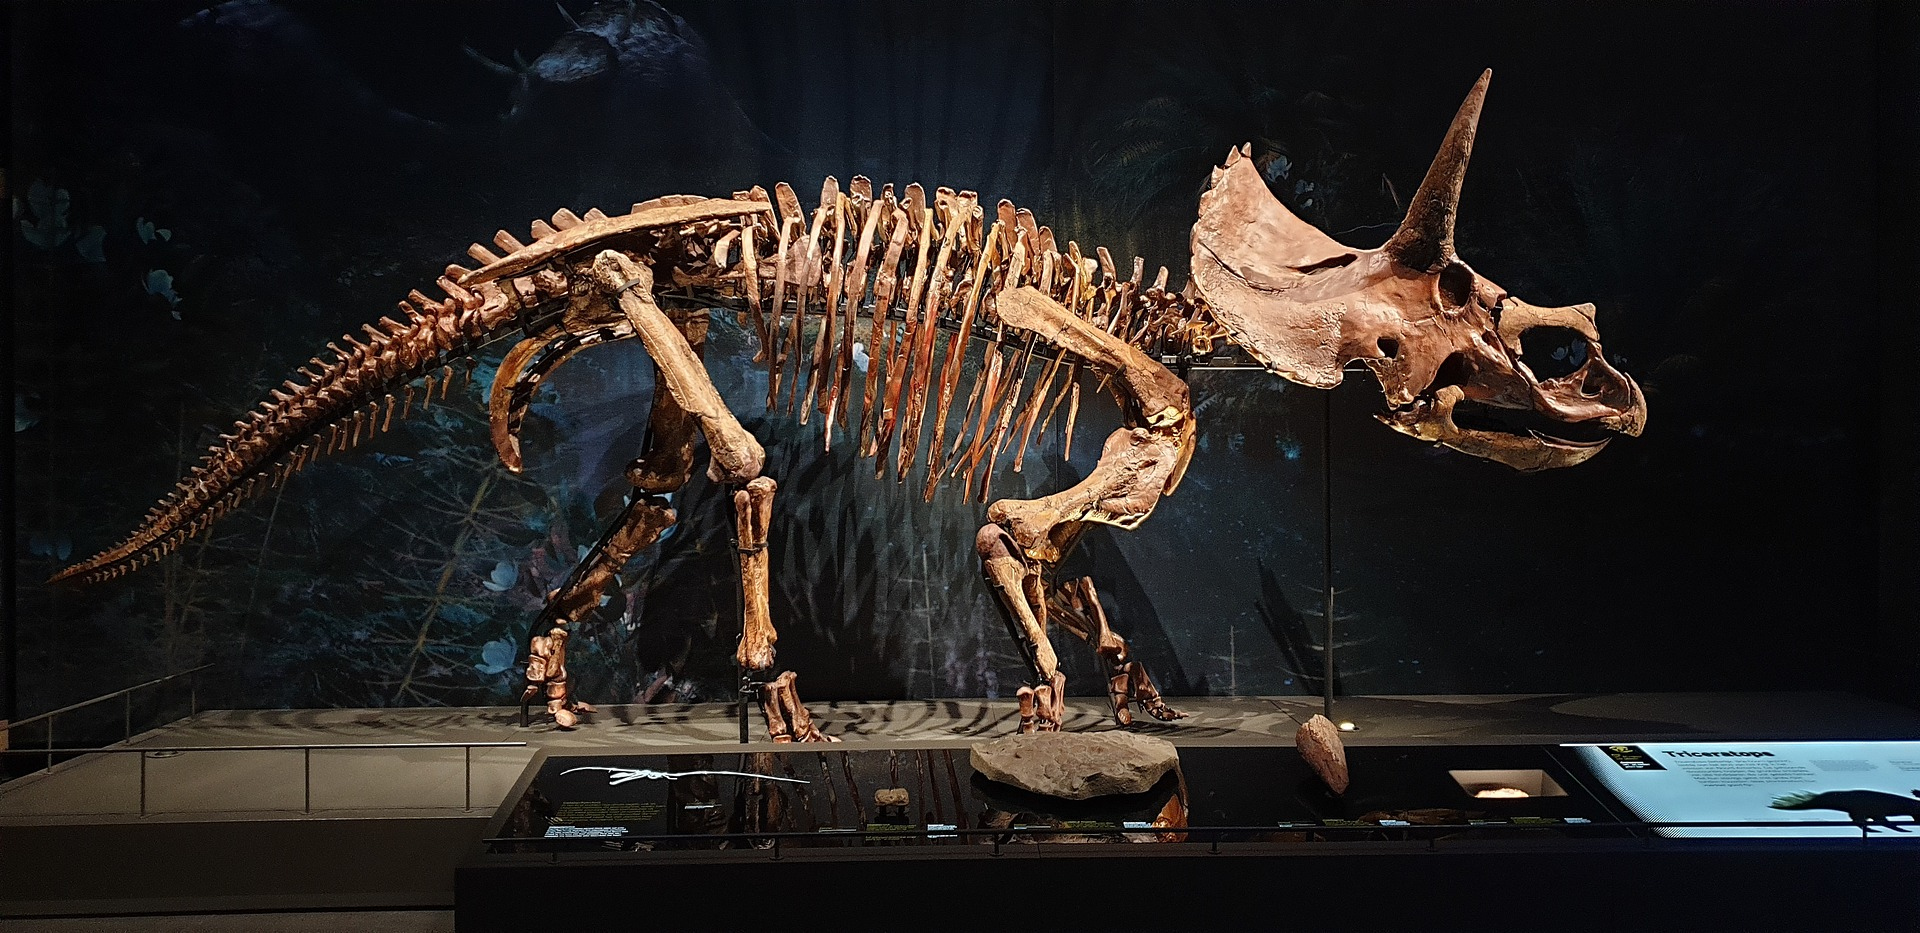
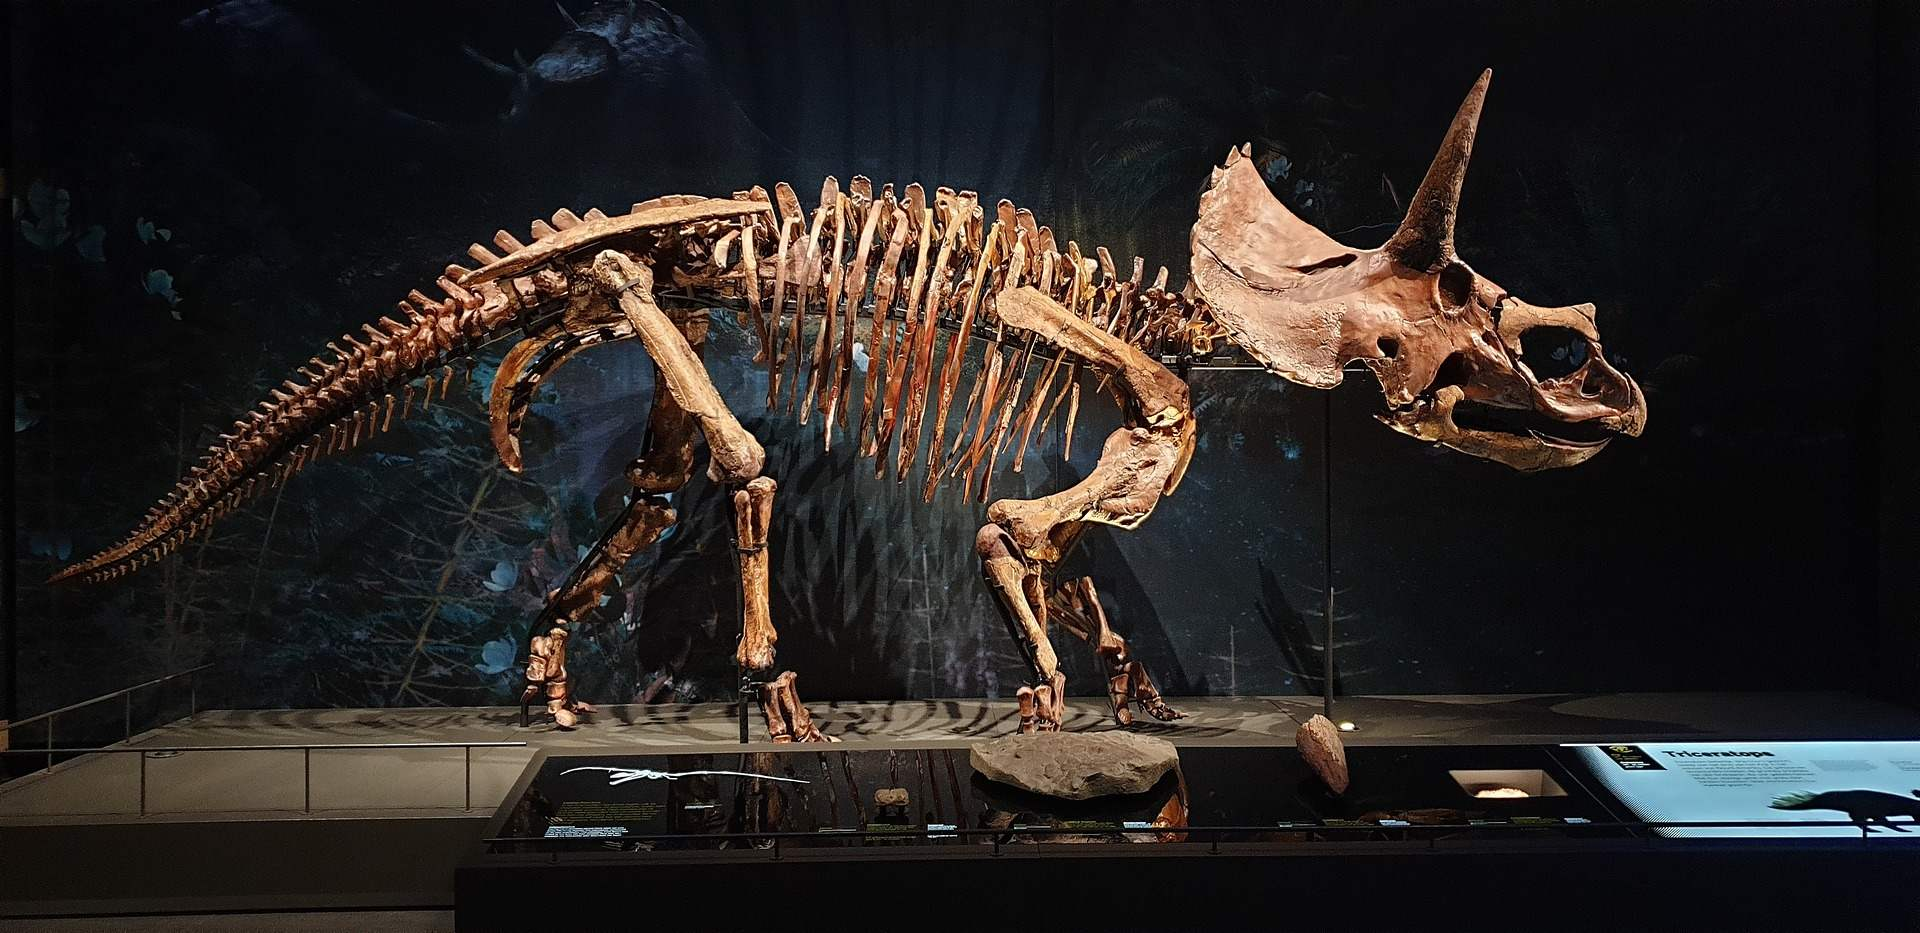
compressed some images so every image is below 200kb, all pages now html validation updated and received a unique meta title and meta description. all images now have a descriptive alt

Changed region(s): [[0.5, 0.2797, 0.5625, 0.3108], [0.625, 0.3419, 0.6562, 0.373], [0.5938, 0.3108, 0.625, 0.3419]]

diff --git a/html/exhibitions.html b/html/exhibitions.html
@@ -5,7 +5,7 @@
    <meta http-equiv="X-UA-Compatible" content="IE=edge">
    <meta name="viewport" content="width=device-width, initial-scale=1.0">
    <title>Community Science Museum | Exhibitions</title>
-   <meta name="description" content="TBD">
+   <meta name="description" content="read about all our fascinating exhibitons before visiting our museum so you know which ones you definently want to see first when you come and visit us!">
    <link href="/css/style.css" rel="stylesheet">
    <link href="/css/style-exhibitions.css" rel="stylesheet">
    <script src="https://kit.fontawesome.com/801ba823f5.js" crossorigin="anonymous"></script>
@@ -14,8 +14,8 @@
    
    <header class="flex-row-static" id="header">
       <a href="../index.html" class="logo flex-row-static">
-         <img src="/images/logo.png" alt="desc">
-         <h2>Community<span class="line-break">Science Museum</span></h2>
+         <img src="/images/logo.png" alt="The community science museum logo">
+         <p>Community<span class="line-break">Science Museum</span></p>
       </a>
       <input type="checkbox" id="menu-checkbox">
       <label for="menu-checkbox"><i class="fas fa-bars"></i></label>
@@ -37,7 +37,7 @@
       <div class="grid-container exhib-container">
          <section class="grid-item flex-column-static">
             <div class="flex-row-static grid-item-heading">
-               <img src="/images/exhibitionpage-image1.png" alt="desc">
+               <img src="/images/exhibitionpage-image1.jpg" alt="scientist looking at micro organisms">
                <h2>Biology and Medicine</h2>
             </div>
             <p>From micro-organisms to the human body, major breakthrough in biology are offering us unique insights into the great wonders of the tiny world.</p>
@@ -48,7 +48,7 @@
 
          <section class="grid-item flex-column-static">
             <div class="flex-row-static grid-item-heading">
-               <img src="/images/exhibitionpage-image2.png" alt="desc">
+               <img src="/images/exhibitionpage-image2.jpg" alt="three skeletons showing the evolution of how it has evolved throughout the years">
                <h2>Evolution</h2>
             </div>
             <p>For centuries, philosophers and scientists have wrestled with the question of our origins. Where do we come from and how did we get here? Since Darwin proposed his theory of evolution we have had a framework for exploring and understanding our place in this world.</p>
@@ -58,7 +58,7 @@
 
          <section class="grid-item flex-column-static">
             <div class="flex-row-static grid-item-heading">
-               <img src="/images/exhibitionpage-image4.png" alt="desc">
+               <img src="/images/exhibitionpage-image4.jpg" alt="TBD">
                <h2>Ecology</h2>
             </div>
             <p>As we learn more and more of the impact humans are having on the planet, the more important it becomes that scientists explore how to create a sustainable future not just for humans but for the whole planet. </p>
@@ -68,7 +68,7 @@
 
          <section class="grid-item flex-column-static">
             <div class="flex-row-static grid-item-heading">
-               <img src="/images/exhibitionpage-image3.png" alt="desc">
+               <img src="/images/exhibitionpage-image3.png" alt="illustration of planets in our galaxy">
                <h2>Cosmology</h2>
             </div>
             <p>Explore the wonders of our cosmos. Our fantastic exhibition, “The Sky Above us”, explores the night sky and what we can see and know about the universe around us. We’ll locate the various constellations and galaxies that can be seen and learn a bit about the early navigators who used the stars to travel by.</p>
@@ -77,7 +77,7 @@
 
          <section class="grid-item flex-column-static">
             <div class="flex-row-static grid-item-heading">
-               <img src="/images/exhibitionpage-image5.png" alt="desc">
+               <img src="/images/exhibitionpage-image5.jpg" alt="intergalactic time machine capsule">
                <h2>Robotics<span class="line-break"></span> and AI</h2>
             </div>
             <p>The information revolution is here and robotics and artificial intelligence are the science of the future. From useful home applications of AI to industrial uses of Robotics, the future is here. You can even say hello and shake the hand of Rob the Robot.</p>
@@ -132,10 +132,10 @@
 
       <div class="footer-item footer-logo-icons flex-columns-to-rows">
          <div class="logo logo-footer flex-row-static">
-            <img src="/images/logo.png" alt="desc">
-            <h2>Community<span class="line-break">Science Museum</span></h2>
+            <img src="/images/logo.png" alt="The community science museum logo">
+            <p>Community<span class="line-break">Science Museum</span></p>
          </div>
-         <p>&copy;Copyright 2023</p>
+         <p class="copyright">&copy;Copyright 2023</p>
          <div class="social-icons flex-row-static">
             <i class="fa-brands fa-facebook"></i>
             <i class="fa-brands fa-instagram"></i>

diff --git a/html/get-involved.html b/html/get-involved.html
@@ -5,7 +5,7 @@
    <meta http-equiv="X-UA-Compatible" content="IE=edge">
    <meta name="viewport" content="width=device-width, initial-scale=1.0">
    <title>Community Science Museum | Get Involved</title>
-   <meta name="description" content="TBD">
+   <meta name="description" content="want to help out the community science museum? we allow donations of items of interest and we aquire more people to keep the museum up and running. we also have internships in our museum if you are interested in working here and making a career.">
    <link href="/css/style.css" rel="stylesheet">
    <link href="/css/style-get-involved.css" rel="stylesheet">
    <script src="https://kit.fontawesome.com/801ba823f5.js" crossorigin="anonymous"></script>
@@ -14,8 +14,8 @@
    
    <header class="flex-row-static" id="header">
       <a href="../index.html" class="logo flex-row-static">
-         <img src="/images/logo.png" alt="desc">
-         <h2>Community<span class="line-break">Science Museum</span></h2>
+         <img src="/images/logo.png" alt="The community science museum logo">
+         <p>Community<span class="line-break">Science Museum</span></p>
       </a>
       <input type="checkbox" id="menu-checkbox">
       <label for="menu-checkbox"><i class="fas fa-bars"></i></label>
@@ -44,21 +44,21 @@
                <h3>Support</h3>
                <p>There are various ways you can support the museum. Donations are very welcome and are an important way we keep this museum open and accessible to the whole community.</p>
                <p>You can also support us by donating items of interest to the museum's collections. If you have some item or collection that you think others would enjoy, please let us know by contacting our Collections Department.</p>
-               <img src="/images/involvedcontent-image1.png" alt="desc">
+               <img src="/images/involvedcontent-image1.png" alt="donation logo">
             </article>
 
             <article class="container-content__item flex-column-static">
                <h3>Volunteer</h3>
                <p>A number of people volunteer their time and effort to keep the displays in good order and ready for visitors to come and enjoy. Volunteering has its perks including getting to see behind the scenes of a working museum, access to staff-only lectures, and a monthly lunch where all staff and volunteers come together to discuss ideas for future exhibits and strategies for the museum.</p>
                <p>You can help volunteer in a number of different spheres. Please contact us if you'd like to find out more about how you can get involved.</p>
-               <img src="/images/involvedcontent-image2.png" alt="desc">
+               <img src="/images/involvedcontent-image2.png" alt="volunteer logo">
             </article>
 
             <article class="container-content__item flex-column-static">
                <h3>Internships</h3>
                <p>Are you interested in working in a museum? Do you enjoy the fun and excitement of sharing the wonders of nature with people? Well you could be just the right person to enjoy an internship at the museum.</p>
                <p>You'll be learning from a number of different academics and people who are passionate about science and sharing it with the wider community.</p>
-               <img src="/images/involvedcontent-image3.png" alt="desc ">
+               <img src="/images/involvedcontent-image3.png" alt="internship logo">
             </article>
          </div>
 
@@ -111,10 +111,10 @@
 
       <div class="footer-item footer-logo-icons flex-columns-to-rows">
          <div class="logo logo-footer flex-row-static">
-            <img src="/images/logo.png" alt="desc">
-            <h2>Community<span class="line-break">Science Museum</span></h2>
+            <img src="/images/logo.png" alt="The community science museum logo">
+            <p>Community<span class="line-break">Science Museum</span></p>
          </div>
-         <p>&copy;Copyright 2023</p>
+         <p class="copyright">&copy;Copyright 2023</p>
          <div class="social-icons flex-row-static">
             <i class="fa-brands fa-facebook"></i>
             <i class="fa-brands fa-instagram"></i>

diff --git a/html/book-tour-guide.html b/html/book-tour-guide.html
@@ -5,7 +5,7 @@
    <meta http-equiv="X-UA-Compatible" content="IE=edge">
    <meta name="viewport" content="width=device-width, initial-scale=1.0">
    <title>Community Science Museum | Book Tour Guide</title>
-   <meta name="description" content="TBD">
+   <meta name="description" content="book a tour guide for when you visit the community science museum! if you are more than 6 people then fill in the form and you can have your own private tour guide">
    <link href="/css/style.css" rel="stylesheet">
    <link href="/css/style-book-tour-guide.css" rel="stylesheet">
    <script src="https://kit.fontawesome.com/801ba823f5.js" crossorigin="anonymous"></script>
@@ -14,7 +14,7 @@
    
    <header class="flex-row-static" id="header">
       <a href="../index.html" class="logo flex-row-static">
-         <img src="/images/logo.png" alt="desc">
+         <img src="/images/logo.png" alt="The community science museum logo">
          <h2>Community<span class="line-break">Science Museum</span></h2>
       </a>
       <input type="checkbox" id="menu-checkbox">
@@ -129,7 +129,7 @@
 
       <div class="footer-item footer-logo-icons flex-columns-to-rows">
          <div class="logo logo-footer flex-row-static">
-            <img src="/images/logo.png" alt="desc">
+            <img src="/images/logo.png" alt="The community science museum logo">
             <h2>Community<span class="line-break">Science Museum</span></h2>
          </div>
          <p>&copy;Copyright 2023</p>

diff --git a/html/ysc-club.html b/html/ysc-club.html
@@ -5,7 +5,7 @@
    <meta http-equiv="X-UA-Compatible" content="IE=edge">
    <meta name="viewport" content="width=device-width, initial-scale=1.0">
    <title>Community Science Museum | YSC Club</title>
-   <meta name="description" content="TBD">
+   <meta name="description" content="registration to the young stars club, a club where young people will learn and explore the science and history of our planet.">
    <link href="/css/style.css" rel="stylesheet">
    <link href="/css/style-ysc-club.css" rel="stylesheet">
    <script src="https://kit.fontawesome.com/801ba823f5.js" crossorigin="anonymous"></script>
@@ -14,7 +14,7 @@
    
    <header class="flex-row-static" id="header">
       <a href="../index.html" class="logo flex-row-static">
-         <img src="/images/logo.png" alt="desc">
+         <img src="/images/logo.png" alt="The community science museum logo">
          <p>Community<span class="line-break">Science Museum</span></p>
       </a>
       <input type="checkbox" id="menu-checkbox">
@@ -131,7 +131,7 @@
 
       <div class="footer-item footer-logo-icons flex-columns-to-rows">
          <div class="logo logo-footer flex-row-static">
-            <img src="/images/logo.png" alt="desc">
+            <img src="/images/logo.png" alt="The community science museum logo">
             <p>Community<span class="line-break">Science Museum</span></p>
          </div>
          <p class="copyright">&copy;Copyright 2023</p>

diff --git a/index.html b/index.html
@@ -33,7 +33,7 @@
 
       <div class="hero container flex-columns-to-rows">
          <div class="section-images">
-            <img src="/images/hero.jpg" alt="illustration of newton's cradle, that demonstrates consevation of momentum and energy">
+            <img src="/images/hero.jpg" alt="newton's cradle, that demonstrates consevation of momentum and energy">
          </div>
          <article class="flex-column-static">
             <h1>Explore Together</h1>
@@ -47,7 +47,7 @@
 
       <div class="container ysc-club flex-columns-to-rows">
          <div class="section-images flex-row-static">
-            <img src="/images/young-stars-club.jpg" alt="a child painting with a vr headset at the young stars club">
+            <img src="/images/young-stars-club.jpg" alt="child painting with a vr headset at the young stars club">
          </div>
          <article class="flex-column-static">
             <h2>Young Stars Club</h2>
@@ -98,7 +98,7 @@
             </article>
          </div>
          <div class="events__item">
-            <img src="/images/events-image2.png" alt="image of the community science museum at night">
+            <img src="/images/events-image2.png" alt="the community science museum main entrance at night">
             <article class="flex-column-static">
                <h3>Night in the Museum</h3>
                <p>27 April 2023 : 23:00 - 08:00</p>

diff --git a/css/style-get-involved.css b/css/style-get-involved.css
@@ -6,7 +6,7 @@
 .heading-background {
    background: #444;
    background-blend-mode: multiply;
-   background-image: url(/images//getinvolved-background-mobile.png);
+   background-image: url(/images/getinvolved-background-mobile.png);
    background-size: cover;
    background-position: center top;
    width: 100%;
@@ -65,7 +65,7 @@
 
 @media (min-width: 750px) {
    .heading-background {
-      background-image: url(/images/getinvolved-background-desktop.png);
+      background-image: url(/images/getinvolved-background-desktop.jpg);
       height: 60vh;
    }
 }

diff --git a/css/style-exhibitions.css b/css/style-exhibitions.css
@@ -17,7 +17,7 @@
 }
 
 .grid-item {
-   padding: 2em 2em 0;
+   padding: 3em 2em 2em;
    gap: 1em;
    color: #000;
    box-shadow: 1px -1px 29px 2px rgba(0,0,0,0.25);
@@ -71,7 +71,7 @@
 
 .cta-learnmore {
    font-weight: bold;
-   color: #fff;
+   color: var(--clr-cta-blue);
 }
 
 /* Responsive */
